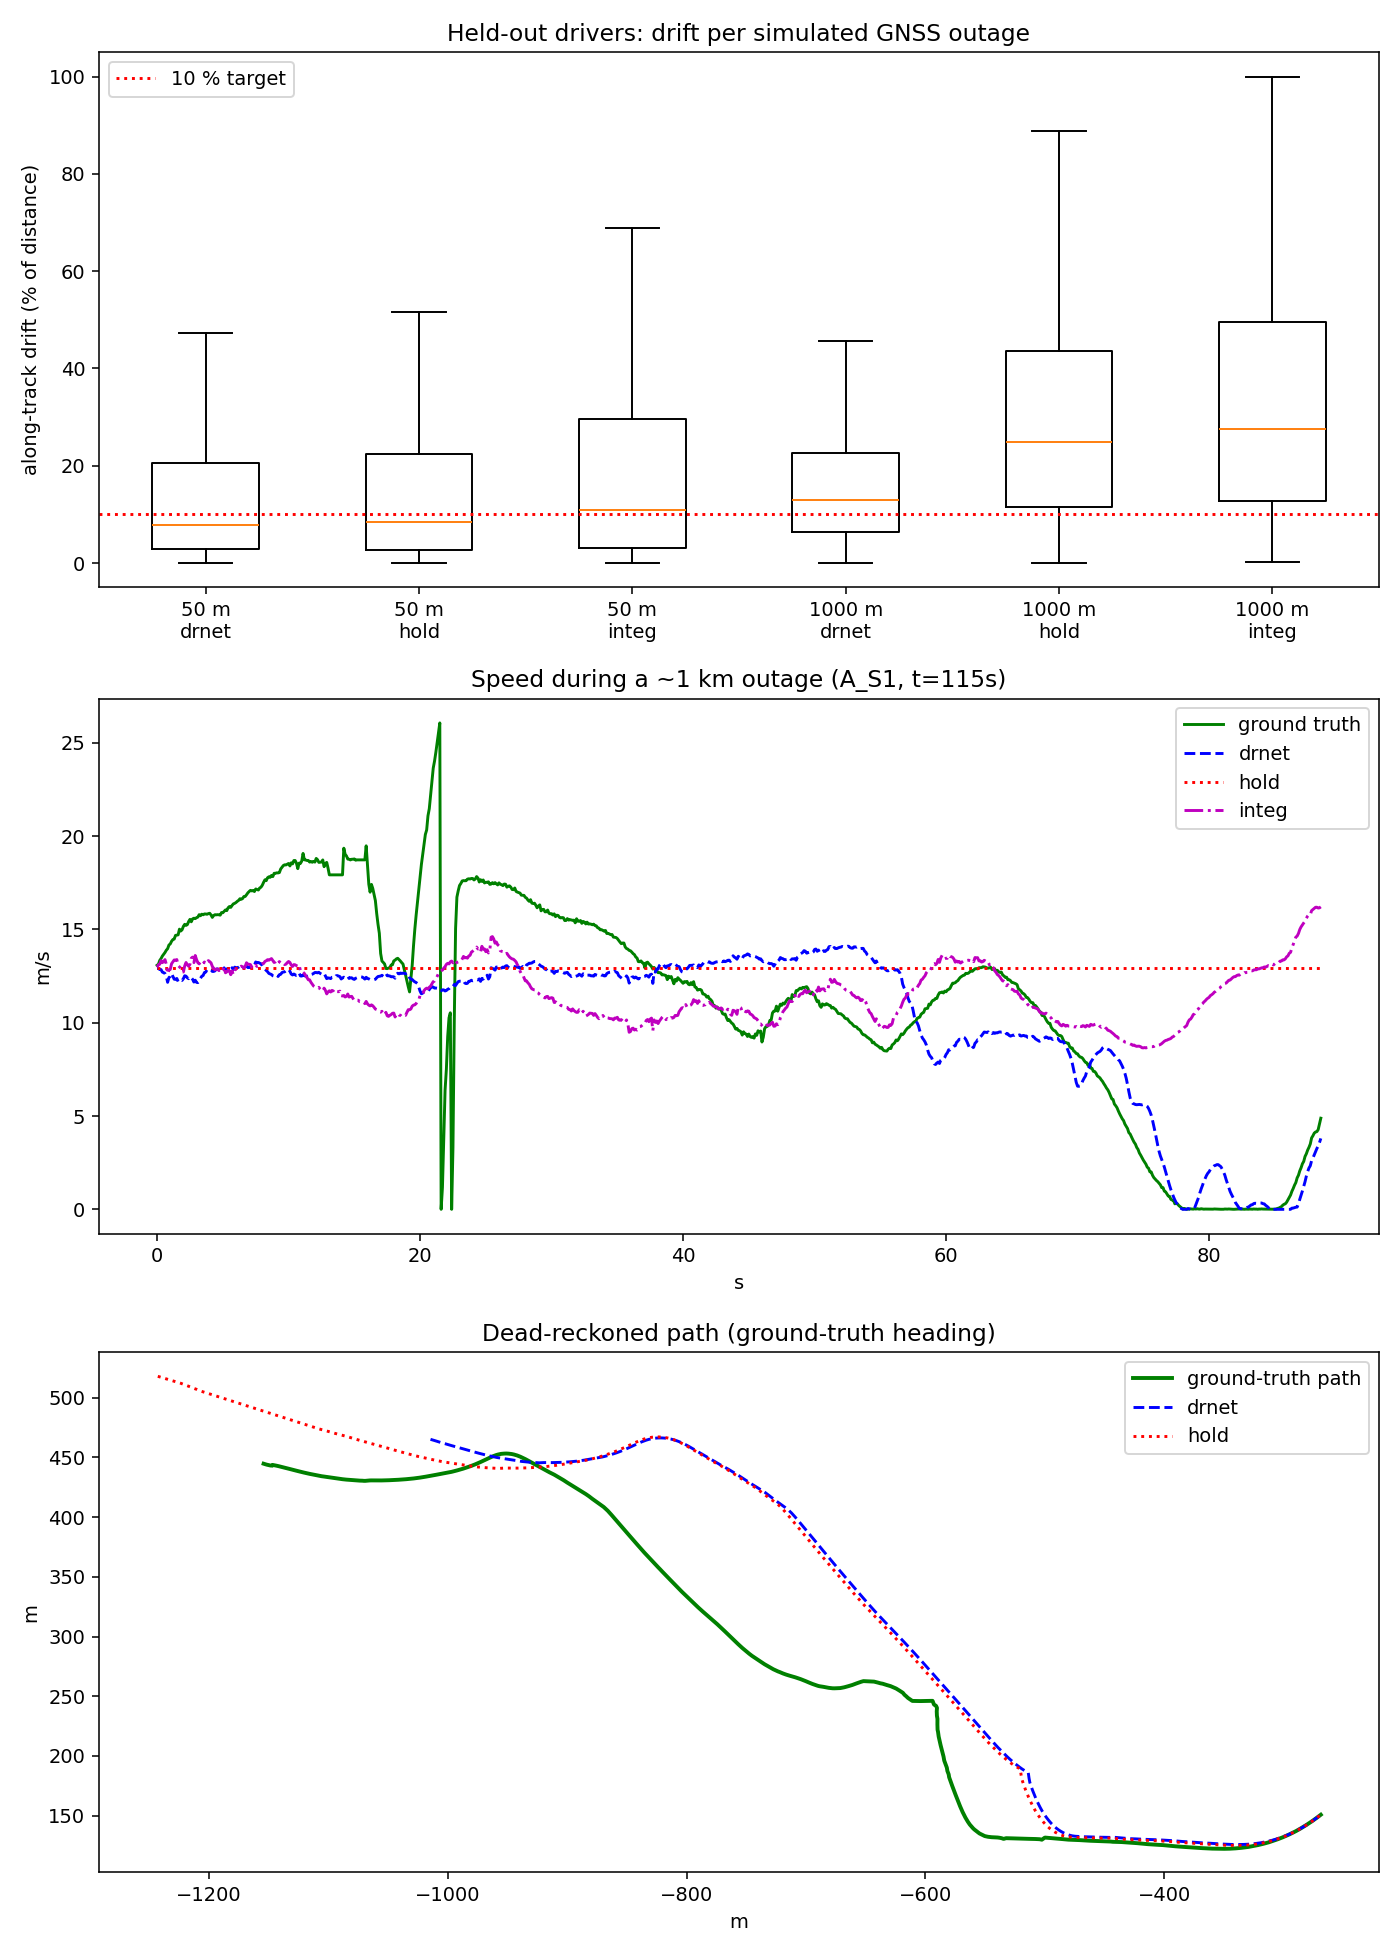
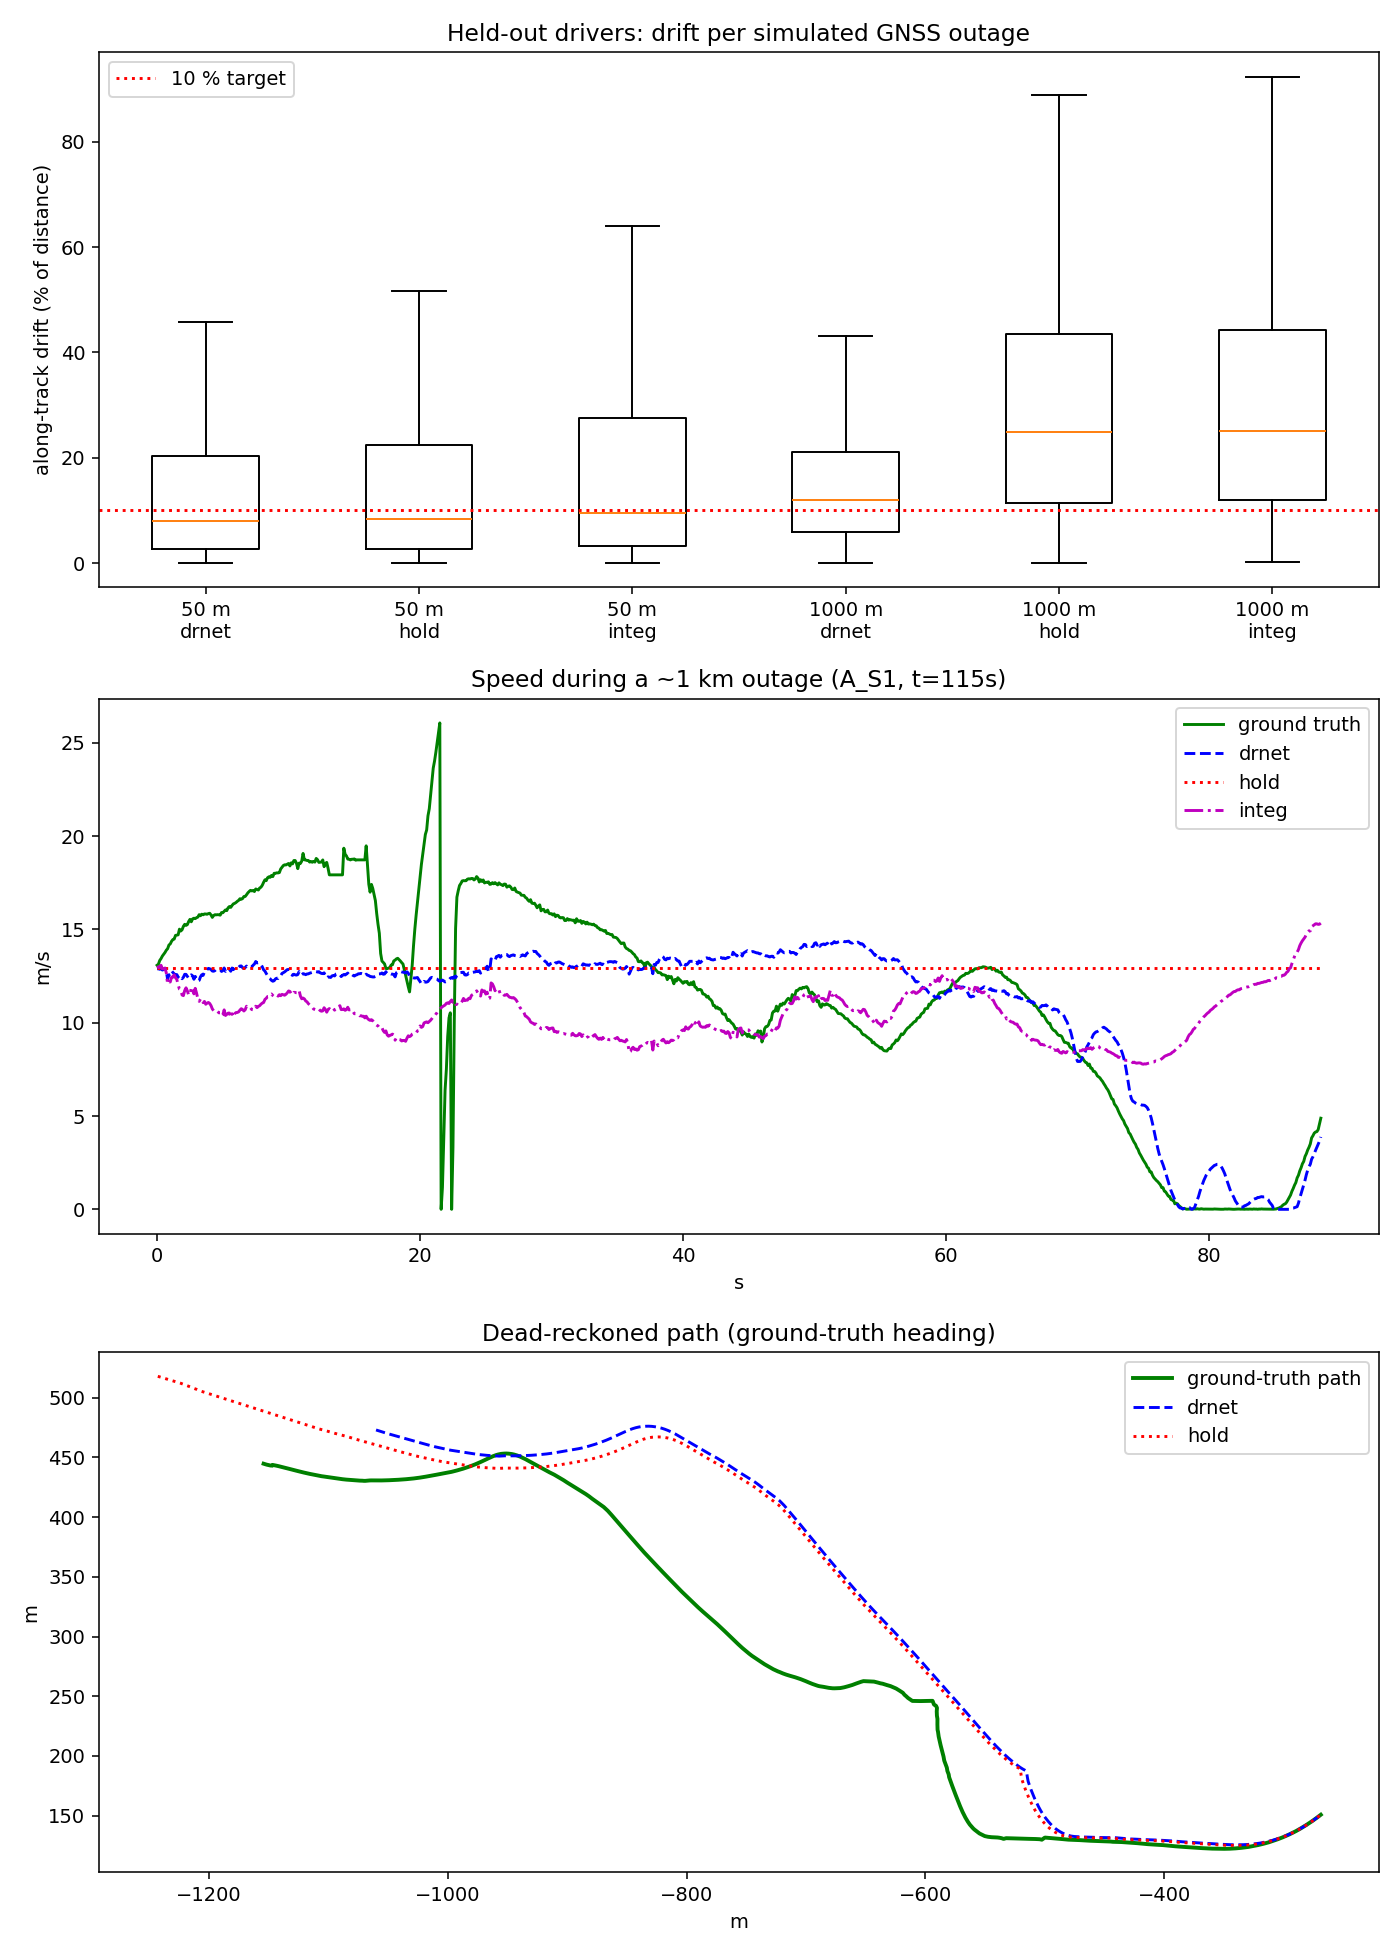
add streaming IDR core and deployable forward-axis benchmark

diff --git a/edge_engine/idr_core.py b/edge_engine/idr_core.py
@@ -1,0 +1,153 @@
+"""Streaming Intelligent-Dead-Reckoning core (numpy only, no dataset dependencies).
+
+This is the reference for the Dart port (lib/domain/dr_engine/idr_core.dart) and is used by the
+edge engine and the benchmark. It must stay numerically identical to ml_pipeline/features.py
+(checked by tests/test_parity.py).
+
+Pipeline at 10 Hz:
+    raw accel (with gravity) + gyro --> gravity-aligned decomposition --> forward axis rotation
+    --> 5 scaled features --> DRNet step (speed integrator with learned correction)
+
+GNSS: while fixes are good the speed is the GNSS speed and the forward axis keeps calibrating;
+when GNSS drops, DRNet starts from the last GNSS speed with a zeroed hidden state.
+"""
+import numpy as np
+
+RATE_HZ = 10.0
+DT = 1.0 / RATE_HZ
+GRAV_ALPHA = 0.03
+A_SCALE = 3.0
+W_SCALE = 0.5
+SCALES = np.array([A_SCALE, A_SCALE, A_SCALE, W_SCALE, W_SCALE], dtype=np.float64)
+
+
+class FeatureStream:
+    """Per-sample gravity-aligned decomposition. Output angles are relative to the e1/e2 basis."""
+
+    def __init__(self):
+        self.g = None
+
+    def update(self, acc, gyro):
+        acc = np.asarray(acc, dtype=np.float64)
+        gyro = np.asarray(gyro, dtype=np.float64)
+        self.g = acc.copy() if self.g is None else (1 - GRAV_ALPHA) * self.g + GRAV_ALPHA * acc
+        g_norm = float(np.linalg.norm(self.g))
+        g_hat = self.g / g_norm
+        ref = np.array([1.0, 0, 0]) if abs(g_hat[0]) < 0.9 else np.array([0, 1.0, 0])
+        e1 = ref - (ref @ g_hat) * g_hat
+        e1 /= np.linalg.norm(e1)
+        e2 = np.cross(g_hat, e1)
+        a1, a2 = float(acc @ e1), float(acc @ e2)
+        a_v = float(acc @ g_hat) - g_norm
+        w_up = float(gyro @ g_hat)
+        w_h = float(np.linalg.norm(gyro - w_up * g_hat))
+        return a1, a2, a_v, w_up, w_h
+
+    @staticmethod
+    def vehicle(a1, a2, a_v, w_up, w_h, theta):
+        c, s = np.cos(theta), np.sin(theta)
+        return np.array([c * a1 + s * a2, -s * a1 + c * a2, a_v, w_up, w_h])
+
+
+class ForwardAxisCalibrator:
+    """Learns the vehicle forward direction in the phone's horizontal plane from GNSS speed changes.
+
+    Between consecutive GNSS fixes we regress the GNSS-derived acceleration onto the mean
+    horizontal accelerometer vector. Exponential forgetting lets it follow a re-mounted phone.
+    """
+
+    def __init__(self, forget=0.995, min_fixes=40, min_speed=2.0):
+        self.forget, self.min_fixes, self.min_speed = forget, min_fixes, min_speed
+        self.xtx = np.zeros((2, 2))
+        self.xty = np.zeros(2)
+        self.n = 0
+        self.sum = np.zeros(2)
+        self.cnt = 0
+        self.prev_speed = None
+        self.prev_t = None
+        self.theta = None
+
+    def on_imu(self, a1, a2):
+        self.sum += (a1, a2)
+        self.cnt += 1
+
+    def reset_interval(self):
+        self.sum[:] = 0
+        self.cnt = 0
+
+    def on_gnss(self, speed, t):
+        if self.prev_speed is not None and self.cnt > 0 and t > self.prev_t:
+            a_gps = (speed - self.prev_speed) / (t - self.prev_t)
+            if speed > self.min_speed and self.prev_speed > self.min_speed and abs(a_gps) < 6.0:
+                x = self.sum / self.cnt
+                self.xtx = self.forget * self.xtx + np.outer(x, x)
+                self.xty = self.forget * self.xty + x * a_gps
+                self.n += 1
+                if self.n >= self.min_fixes:
+                    det = np.linalg.det(self.xtx)
+                    if det > 1e-9:
+                        w = np.linalg.solve(self.xtx, self.xty)
+                        self.theta = float(np.arctan2(w[1], w[0]))
+        self.prev_speed, self.prev_t = speed, t
+        self.reset_interval()
+
+
+class OrtStep:
+    """DRNet single step through onnxruntime; keeps v and h between calls."""
+
+    def __init__(self, path):
+        import onnxruntime as ort
+        self.sess = ort.InferenceSession(path, providers=["CPUExecutionProvider"])
+        self.hidden = self.sess.get_inputs()[2].shape[1]
+        self.v = np.zeros((1, 1), np.float32)
+        self.h = np.zeros((1, self.hidden), np.float32)
+
+    def reset(self, v0):
+        self.v = np.array([[v0]], np.float32)
+        self.h = np.zeros((1, self.hidden), np.float32)
+
+    def step(self, feat_raw):
+        f = (np.asarray(feat_raw) / SCALES).astype(np.float32)[None]
+        self.v, self.h = self.sess.run(None, {"feat": f, "v": self.v, "h": self.h})
+        return float(self.v[0, 0])
+
+
+class IdrCore:
+    """Speed estimator with seamless GNSS <-> dead-reckoning switching."""
+
+    def __init__(self, onnx_path):
+        self.feat = FeatureStream()
+        self.axis = ForwardAxisCalibrator()
+        self.net = OrtStep(onnx_path)
+        self.speed = 0.0
+        self.gnss_speed = 0.0
+        self.mode = "gnss"          # "gnss" | "dr"
+        self.t = 0.0
+
+    @property
+    def can_dead_reckon(self):
+        return self.axis.theta is not None
+
+    def on_gnss(self, speed, t):
+        """Call for every GNSS fix while the signal is usable."""
+        self.axis.on_gnss(speed, t)
+        self.gnss_speed = speed
+        self.speed = speed
+        if self.mode == "dr":
+            self.mode = "gnss"       # seamless return: the next IMU step already follows GNSS
+
+    def start_outage(self):
+        if self.mode != "dr":
+            self.mode = "dr"
+            self.net.reset(self.gnss_speed if self.speed == 0 else self.speed)
+
+    def on_imu(self, acc, gyro):
+        """10 Hz IMU sample. Returns (speed, yaw_rate)."""
+        a1, a2, a_v, w_up, w_h = self.feat.update(acc, gyro)
+        self.axis.on_imu(a1, a2)
+        if self.mode == "dr":
+            if self.can_dead_reckon:
+                f = FeatureStream.vehicle(a1, a2, a_v, w_up, w_h, self.axis.theta)
+                self.speed = self.net.step(f)
+            # without a calibrated axis we can only hold the last GNSS speed
+        return self.speed, w_up

diff --git a/ml_pipeline/benchmark_suite.py b/ml_pipeline/benchmark_suite.py
@@ -27,7 +27,7 @@ import matplotlib.pyplot as plt
 
 from dr_net import DRNet
 from features import DT, scale_features
-from runs import ROOT, TEST, load_run
+from runs import ROOT, TEST, load_run, rotate_features, streaming_axis
 
 HERE = os.path.dirname(os.path.abspath(__file__))
 OUTAGES_M = (50, 1000)
@@ -40,10 +40,16 @@ def to_xy(lat, lon, lat0, lon0):
     return ((lon - lon0) * 111320.0 * np.cos(np.deg2rad(lat0)), (lat - lat0) * 110574.0)
 
 
-def simulate(model, run, starts, tmax):
+def run_features(run, s, tmax, axis):
+    if axis == "offline":
+        return run["feat"][s:s + tmax]
+    return rotate_features(run["base"][s:s + tmax], run["theta_t"][s])   # axis frozen at outage start
+
+
+def simulate(model, run, starts, tmax, axis):
     n = len(run["gt_speed"])
-    starts = [s for s in starts if s + tmax + 1 < n]
-    feats = np.stack([scale_features(run["feat"][s:s + tmax]) for s in starts])
+    starts = [s for s in starts if s + tmax + 1 < n and (axis == "offline" or not np.isnan(run["theta_t"][s]))]
+    feats = np.stack([scale_features(run_features(run, s, tmax, axis)) for s in starts])
     gt = np.stack([run["gt_speed"][s + 1:s + tmax + 1] for s in starts])
     v0 = np.array([[run["gt_speed"][s]] for s in starts])
     with torch.no_grad():
@@ -52,14 +58,14 @@ def simulate(model, run, starts, tmax):
     return starts, {"drnet": v_net, "hold": np.repeat(v0, tmax, 1), "integ": v_int, "oracle": gt}, gt
 
 
-def evaluate(model, runs, length_m):
+def evaluate(model, runs, length_m, axis):
     tmax = TMAX[length_m]
     res = {m: {"drift": [], "pos": []} for m in METHODS}
     examples = None
     for run in runs:
         n = len(run["gt_speed"])
         starts = [s for s in range(1000, n - tmax - 2, 150) if run["gt_speed"][s] > 3.0]
-        starts, vel, gt = simulate(model, run, starts, tmax)
+        starts, vel, gt = simulate(model, run, starts, tmax, axis)
         lat0, lon0 = run["gt_lat"], run["gt_lon"]
         xg, yg = to_xy(run["gt_lat"], run["gt_lon"], run["gt_lat"][0], run["gt_lon"][0])
         for i, s in enumerate(starts):
@@ -102,12 +108,15 @@ def main(a):
     model.load_state_dict(torch.load(a.model, map_location="cpu"))
     model.eval()
     runs = [load_run(n) for n in a.runs]
+    for r in runs:
+        r["theta_t"], r["base"] = streaming_axis(r)
     report = {"model": os.path.relpath(a.model, ROOT), "test_runs": a.runs,
+              "forward_axis": a.axis,
               "note": "heading for 2D error is ground-truth heading; along-track drift is the speed-only metric",
               "outages": {}}
     box, example = {}, None
     for L in OUTAGES_M:
-        res, ex = evaluate(model, runs, L)
+        res, ex = evaluate(model, runs, L, a.axis)
         report["outages"][f"{L}m"] = {m: stats(res[m]["drift"], res[m]["pos"]) for m in METHODS}
         box[L] = res
         example = example or ex
@@ -150,6 +159,8 @@ def plot(a, box, example):
 if __name__ == "__main__":
     ap = argparse.ArgumentParser()
     ap.add_argument("--model", default=os.path.join(ROOT, "dr_net.pt"))
+    ap.add_argument("--axis", choices=["stream", "offline"], default="stream",
+                    help="stream = calibrated causally from 1 Hz speed fixes (deployable); offline = oracle fit")
     ap.add_argument("--runs", nargs="+", default=TEST)
     ap.add_argument("--report", default=os.path.join(HERE, "benchmark_report.json"))
     ap.add_argument("--figure", default=os.path.join(HERE, "benchmark.png"))

diff --git a/ml_pipeline/runs.py b/ml_pipeline/runs.py
@@ -1,8 +1,11 @@
 """Load IO-VNBD runs (from prepare_runs.py), time-align them and attach deployment-style features."""
 import os
+import sys
 
 import numpy as np
 
+sys.path.insert(0, os.path.join(os.path.dirname(os.path.dirname(os.path.abspath(__file__))), "edge_engine"))
+from idr_core import FeatureStream, ForwardAxisCalibrator  # noqa: E402
 from features import DT, axis_from_accel, decompose, imu_lag, smooth, vehicle_features
 
 ROOT = os.path.dirname(os.path.dirname(os.path.abspath(__file__)))
@@ -37,3 +40,30 @@ def load_run(name):
     r.update(name=name, lag_s=lag * DT, speed_corr=corr, theta=theta, axis_quality=q, valid_frac=float(ok.mean()))
     r["feat"] = vehicle_features(r["acc"], r["gyro"], theta) if theta is not None else None
     return r
+
+
+def streaming_axis(run):
+    """Deployable forward-axis estimate over time: calibrated causally from 1 Hz speed fixes.
+
+    Returns (theta_t, base) where base[:, :5] = [a1, a2, a_v, w_up, w_h]; theta_t is NaN until the
+    calibrator is ready. 1 Hz vehicle speed stands in for GNSS speed (see Sense-Path-Docs.md).
+    """
+    fs, cal = FeatureStream(), ForwardAxisCalibrator()
+    n = len(run["acc"])
+    base, theta = np.zeros((n, 5)), np.full(n, np.nan)
+    for i in range(n):
+        base[i] = fs.update(run["acc"][i], run["gyro"][i])
+        cal.on_imu(base[i, 0], base[i, 1])
+        if i % 10 == 0:
+            cal.on_gnss(run["gt_speed"][i], i * DT)
+        if cal.theta is not None:
+            theta[i] = cal.theta
+    return theta, base
+
+
+def rotate_features(base, theta):
+    c, s = np.cos(theta), np.sin(theta)
+    out = base.copy()
+    out[:, 0] = c * base[:, 0] + s * base[:, 1]
+    out[:, 1] = -s * base[:, 0] + c * base[:, 1]
+    return out
